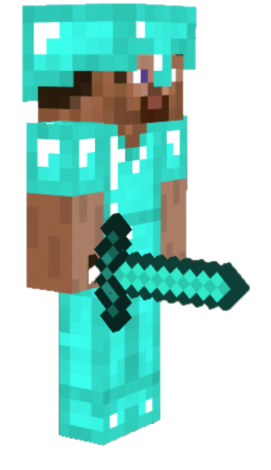
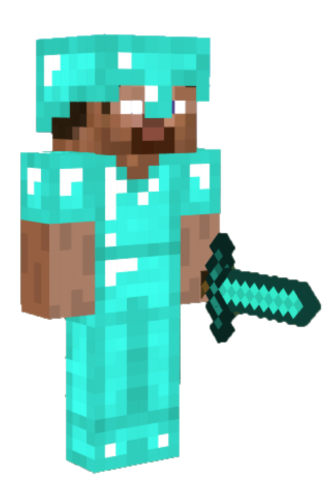
Heavy images fixed, and buyarmor fixed

diff --git a/FFYLife/FFYLife/Control.cs b/FFYLife/FFYLife/Control.cs
@@ -85,7 +85,7 @@ namespace FFYLife
                 }
                 InvalidateVisual();
             };
-            EnemyAttackTimer.Interval = TimeSpan.FromMilliseconds(gameModel.Hero.AttackSpeed);
+            EnemyAttackTimer.Interval = TimeSpan.FromMilliseconds(1500);
             EnemyAttackTimer.Start();
             gameModel.Hero.CanAttack = true;
 
@@ -165,7 +165,7 @@ namespace FFYLife
                             HitCooldown.Stop();
                             InvalidateVisual();
                         };
-                        HitCooldown.Interval = TimeSpan.FromMilliseconds(1000);
+                        HitCooldown.Interval = TimeSpan.FromMilliseconds(gameModel.Hero.AttackSpeed);
                         HitCooldown.Start();
                         InvalidateVisual();
                     }
@@ -271,11 +271,13 @@ namespace FFYLife
                 }
                 if (mouseY >= 730 && mouseY <= 780 && mouseX >= 825 && mouseX <= 925)
                 {
-                    if (logic.BuyArmor() == 1)
+                    int number = logic.BuyArmor();
+
+                    if (number == 1)
                     {
                         MessageBox.Show("You don't have enough vbuck , ask mommy to buy some more!");
                     }
-                    else if (logic.BuyArmor() == 2)
+                    else if (number == 2)
                     {
                         MessageBox.Show("You are already at full Armor");
                     }

diff --git a/FFYLife/FFYLife/Renderer.cs b/FFYLife/FFYLife/Renderer.cs
@@ -210,7 +210,7 @@ namespace FFYLife
             {
                 if (model.Hero.IsDefending)
                 {
-                    hero = new ImageDrawing(GetImage("steveDefend1.png"), new Rect(model.Hero.CX + 50, model.Hero.CY, 200, 200));
+                    hero = new ImageDrawing(GetImage("steveDefend1.png"), new Rect(model.Hero.CX + 50, model.Hero.CY, 150, 200));
                 }
                 else
                 {
@@ -221,11 +221,11 @@ namespace FFYLife
                     }
                     else if (model.Hero.CanAttack)
                     {
-                        hero = new ImageDrawing(GetImage("steve1.png"), new Rect(model.Hero.CX + 50, model.Hero.CY, 100, 200));
+                        hero = new ImageDrawing(GetImage("steve1.png"), new Rect(model.Hero.CX + 50, model.Hero.CY, 150, 200));
                     }
                     else
                     {
-                        hero = new ImageDrawing(GetImage("steveattack1.png"), new Rect(model.Hero.CX + 50, model.Hero.CY, 200, 200));
+                        hero = new ImageDrawing(GetImage("steveattack1.png"), new Rect(model.Hero.CX + 50, model.Hero.CY, 160, 210));
                     }
                 }
             }

diff --git a/FFYLife/GameModel/Models/OneHero.cs b/FFYLife/GameModel/Models/OneHero.cs
@@ -11,6 +11,8 @@ namespace GameModel.Models
         public double DY { get; set; }
 
         public string Type { get; set;}
+
+        public int MaxArmor { get; set; }
         public OneHero(double cx, double cy , string type)
         {
             this.CX = cx;
@@ -24,8 +26,9 @@ namespace GameModel.Models
                 case "Light":
                     Hp = 10;
                     AttackDMG = 1;
-                    AttackSpeed = 300;
+                    AttackSpeed = 750;
                     Armor = 4;
+                    MaxArmor = 4;
 
                     break;
 
@@ -34,6 +37,7 @@ namespace GameModel.Models
                     AttackDMG = 1;
                     AttackSpeed = 1500;
                     Armor = 7;
+                    MaxArmor = 7;
 
                     break;
 

diff --git a/FFYLife/GameLogic/GameLogicc.cs b/FFYLife/GameLogic/GameLogicc.cs
@@ -102,9 +102,9 @@ namespace GameLogic
 
         public int BuyArmor()
         {
-            if (this.model.Hero.Cash >= this.model.HPPrice && this.model.Hero.Armor < 4)
+            if (this.model.Hero.Cash >= this.model.HPPrice && this.model.Hero.Armor < this.model.Hero.MaxArmor)
             {
-                this.model.Hero.Armor += 1;
+                this.model.Hero.Armor +=1;
                 this.model.Hero.Cash -= this.model.ArmorPrice;
                 this.model.ArmorPrice += 10;
 

diff --git a/FFYLife/GameModel/Models/IHero.cs b/FFYLife/GameModel/Models/IHero.cs
@@ -13,5 +13,7 @@ namespace GameModel.Models
         int Cash { get; set; }
         string Type { get; set; }
 
+        int MaxArmor { get; set; }
+
     }
 }
